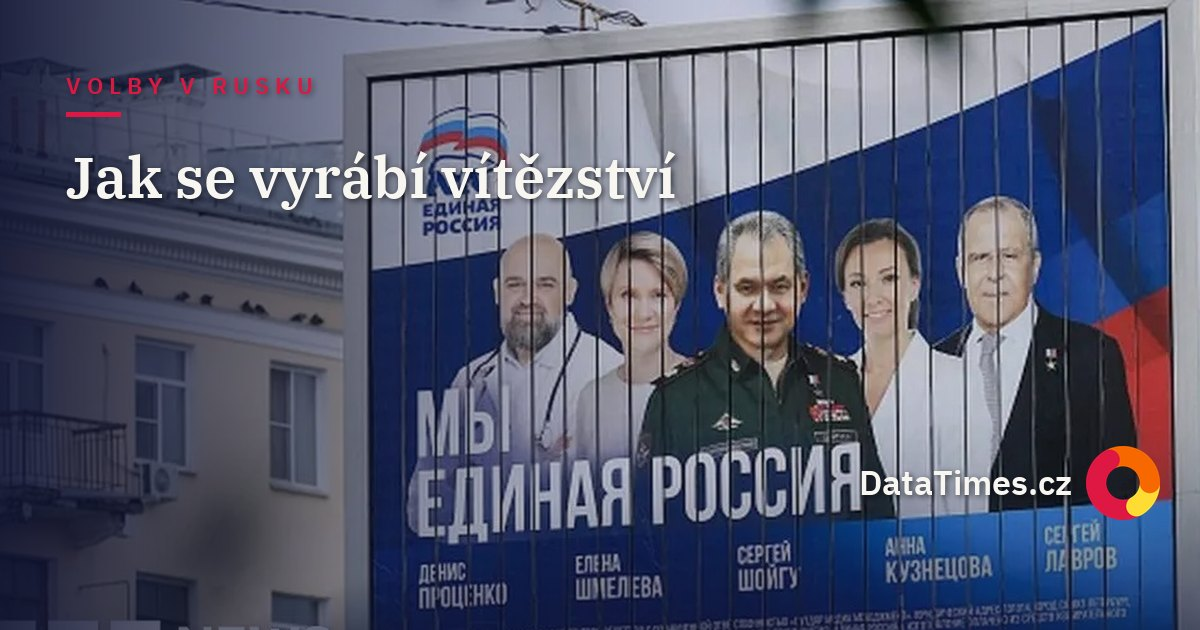
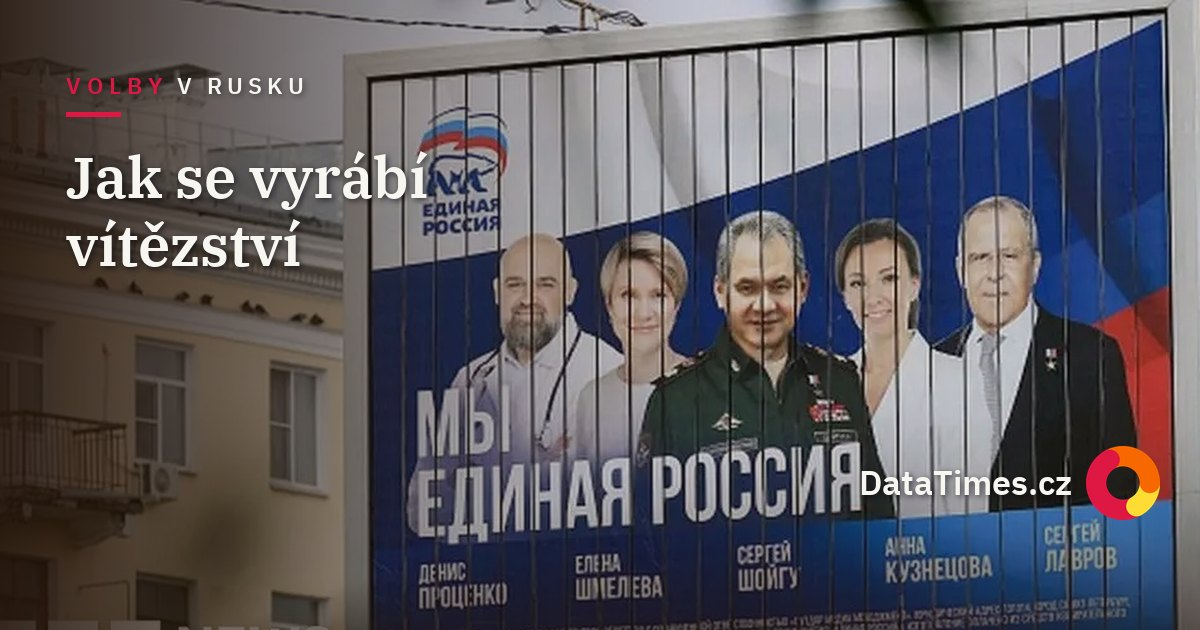
content(rusko-volby): cover v nugátové – Volby(červeně)/v Rusku(bíle), 2řádkový titulek
photo-cover.py: podpora explicitního zalomení headline přes \n.
Cover: scrim brandChocolate, coverBg brandChocolate.9.

Changed region(s): [[0.0, 0.0, 1.0, 1.0], [0.37, 0.2413, 0.5858, 0.3317]]

diff --git a/tools/photo-cover.py b/tools/photo-cover.py
@@ -130,7 +130,7 @@ def main():
 
     # Česká typografie: sváž jednopísmenné předložky/spojky s dalším slovem,
     # ať wrap() nikdy nezalomí za "k/s/v/z/o/u/a/i".
-    args.headline = fix_czech_typography(args.headline)
+    args.headline = fix_czech_typography(args.headline).replace("\\n", "\n")
     args.eyebrow = fix_czech_typography(args.eyebrow)
     args.section = fix_czech_typography(args.section)
 
@@ -188,18 +188,20 @@ def main():
 
     def wrap(text, fnt, max_w):
         d = ImageDraw.Draw(img)
-        lines, cur = [], ""
-        for w in text.split(" "):
-            t = (cur + " " + w).strip()
-            if d.textlength(t, font=fnt) <= max_w:
-                cur = t
-            else:
-                if cur:
-                    lines.append(cur)
-                cur = w
-        if cur:
-            lines.append(cur)
-        return lines
+        out = []
+        for para in text.split("\n"):  # explicitní zalomení přes \n
+            cur = ""
+            for w in para.split(" "):
+                t = (cur + " " + w).strip()
+                if d.textlength(t, font=fnt) <= max_w:
+                    cur = t
+                else:
+                    if cur:
+                        out.append(cur)
+                    cur = w
+            if cur:
+                out.append(cur)
+        return out
 
     MX, MAXW = 66, int(W * 0.633)
 

diff --git a/apps/web/app/clanek/_articles/analyza-2026-09-20-rusko-volby-jak-se-vyrabi-volebni-vitezstvi/index.md b/apps/web/app/clanek/_articles/analyza-2026-09-20-rusko-volby-jak-se-vyrabi-volebni-vitezstvi/index.md
@@ -5,7 +5,7 @@ author: "Kateřina Mahdalová"
 excerpt: "Výsledek ruských parlamentních voleb 2026 není předmětem odhadů, ale centrálních směrnic. Kreml předepsal Jednotnému Rusku zisk mezi 47 a 53 procenty, na okupovaných územích 70 procent, soud vyřadil poslední protiválečnou stranu Jabloko a elektronické hlasování se rozšířilo na 33 regionů. Jak se v moderním Rusku vyrábí volební vítězství."
 coverImage: "images/rusko-volby-jak-se-vyrabi-vitezstvi-datatimes.jpg"
 coverFit: contain
-coverBg: "brandNavy.9"
+coverBg: "brandChocolate.9"
 filter: ["analýza"]
 tags: ["Rusko", "ruské volby 2026", "Jednotné Rusko", "Jabloko", "elektronické hlasování", "okupovaná území", "volební podvody", "Kreml", "Duma", "válka na Ukrajině"]
 promoted: 75
